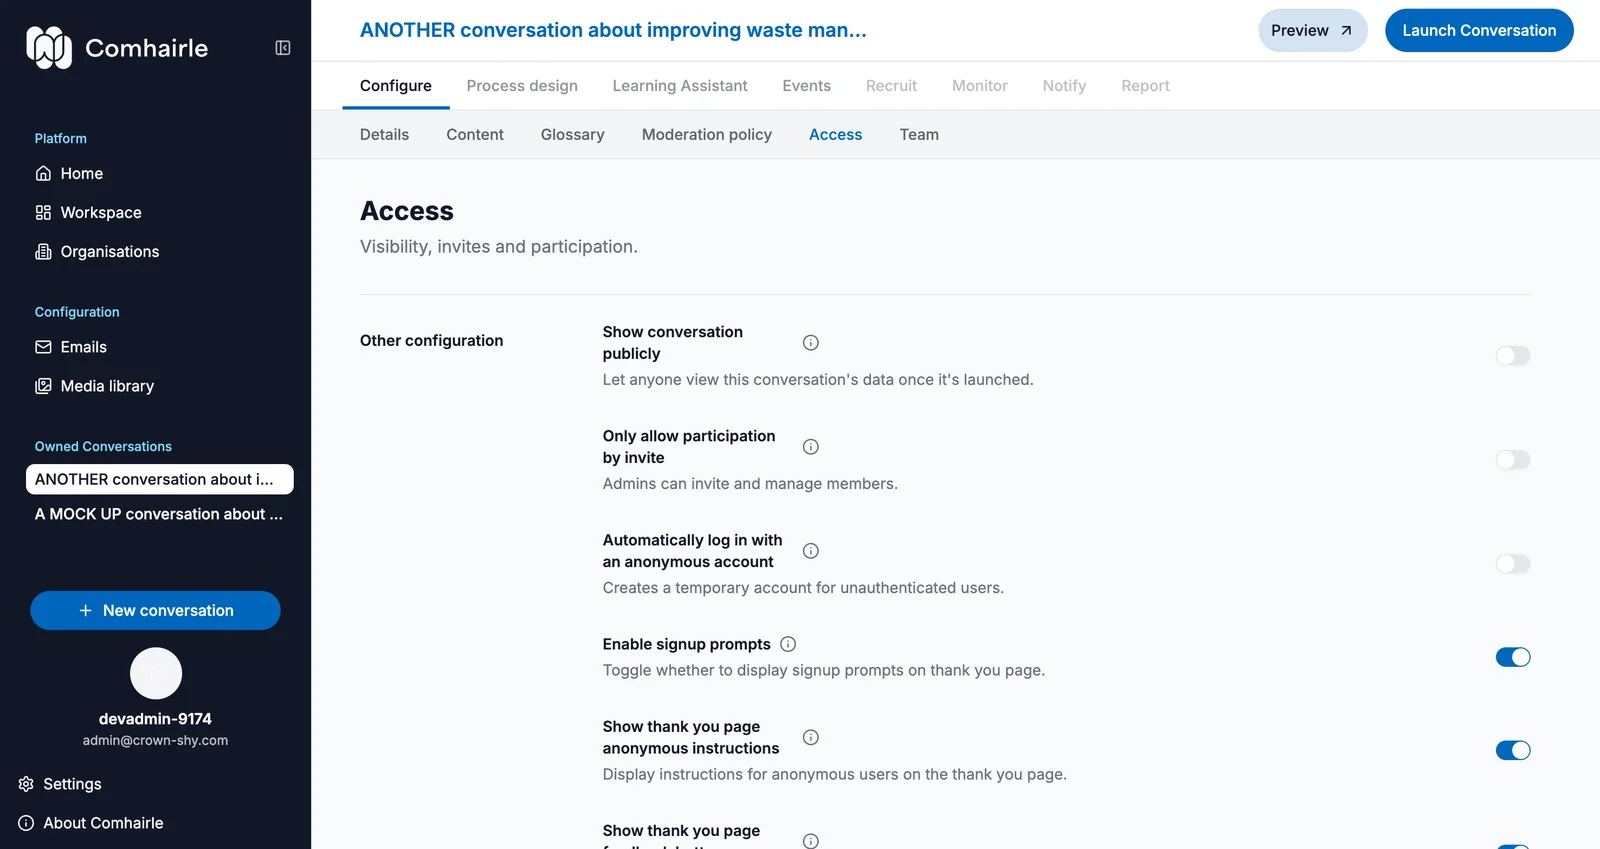
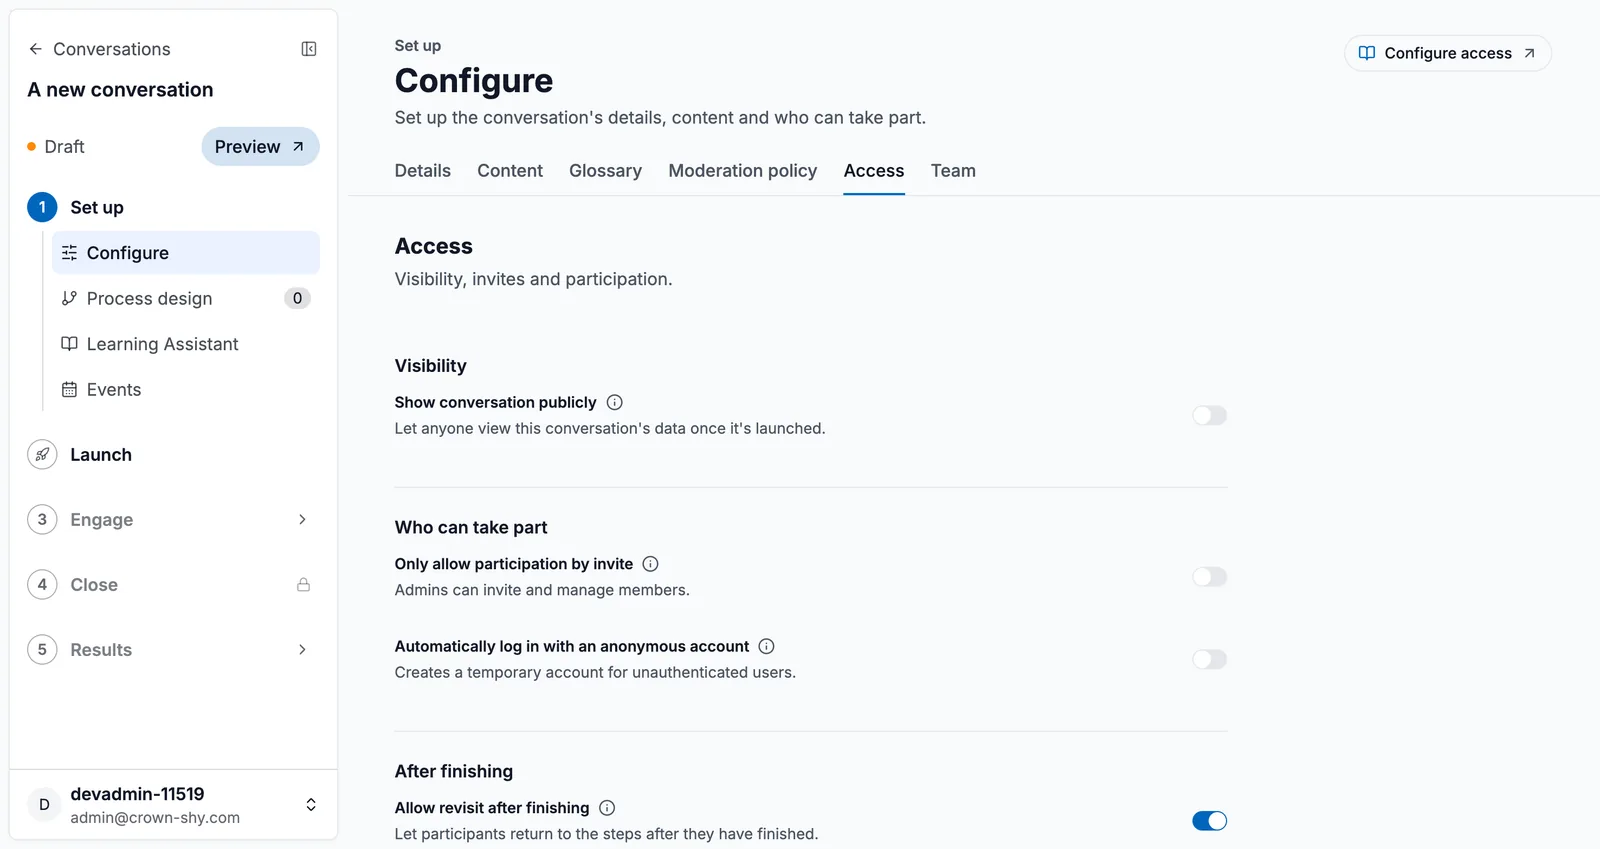
Retake Launch a conversation screenshots
New screenshots for the Access tab and the Launch page, with alt text to match. Correct the Access toggle names in Configure access to the labels on the page. Part of #1567.

diff --git a/ui/packages/comhairle/src/lib/admin_guides.ts b/ui/packages/comhairle/src/lib/admin_guides.ts
@@ -580,7 +580,7 @@ export const ADMIN_GUIDES: Record<string, AdminGuide> = {
 					'Choose who can take part in your conversation and what participants can do before and after completing it.',
 				image: {
 					src: configureAccessImage,
-					alt: 'The Access tab under Configure, listing settings with on and off switches, including Show conversation publicly, Only allow participation by invite, Automatically log in with an anonymous account and Enable signup prompts.'
+					alt: 'The Access tab under Configure, with on and off switches grouped under Visibility (Show conversation publicly), Who can take part (Only allow participation by invite, Automatically log in with an anonymous account) and After finishing (Allow revisit after finishing).'
 				},
 				steps: [
 					'Go to **Configure** → **Access**.',
@@ -588,10 +588,10 @@ export const ADMIN_GUIDES: Record<string, AdminGuide> = {
 					'Use **Show conversation publicly** to allow anyone to view the conversation’s data once it has been launched.',
 					'Use **Only allow participation by invite** to restrict participation to people invited and managed by admins.',
 					'Use **Automatically log in with an anonymous account** to create a temporary account for participants who are not signed in.',
-					'Use **Enable sign up prompts** to show participants an option to sign up after taking part.',
-					'Use **Show thank you page anonymous instruction** to show a thank you page to anonymous participants after they finish.',
-					'Use the **feedback** setting to show a feedback button on the thank you page.',
-					'Use **Allow revisit later** to let participants return to the conversation steps after they have finished.'
+					'Use **Allow revisit after finishing** to let participants return to the conversation steps after they have finished.',
+					'Use **Enable signup prompts** to show participants an option to sign up after taking part.',
+					'Use **Show thank you page anonymous instructions** to show a thank you page to anonymous participants after they finish.',
+					'Use **Show thank you page feedback button** to show a feedback button on the thank you page.'
 				],
 				tips: [
 					'Review these settings before launching, as they affect how participants access and move through your conversation.',
@@ -608,7 +608,7 @@ export const ADMIN_GUIDES: Record<string, AdminGuide> = {
 					'[Launch](/admin/info/glossary#term-launch) your conversation when it is ready for participants to take part.',
 				image: {
 					src: launchAConversationImage,
-					alt: 'The launch confirmation window, warning that launching will make the conversation live for participants and that it can no longer be modified, with Launch and cancel buttons.'
+					alt: 'The Launch page. Before you launch lists Preview it as a participant, Process design, Details and access, and Team. Below it, a warning box explains what happens when you launch, above the Launch conversation button, highlighted in yellow.'
 				},
 				steps: [
 					'Open **Launch** in the sidebar.',
